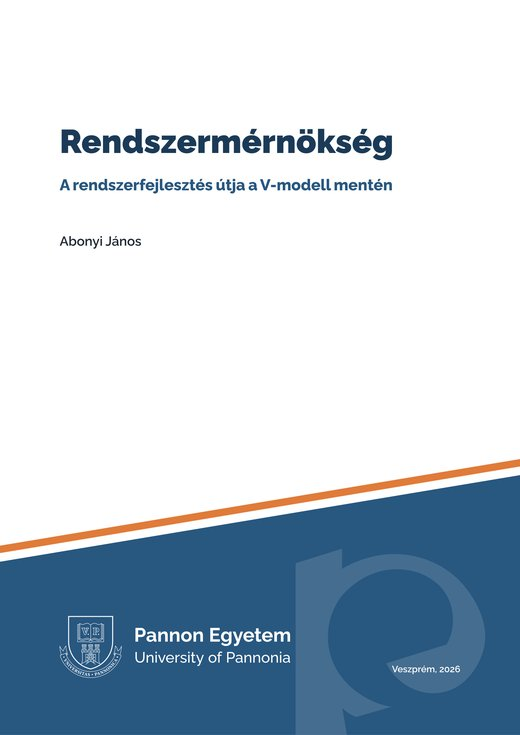
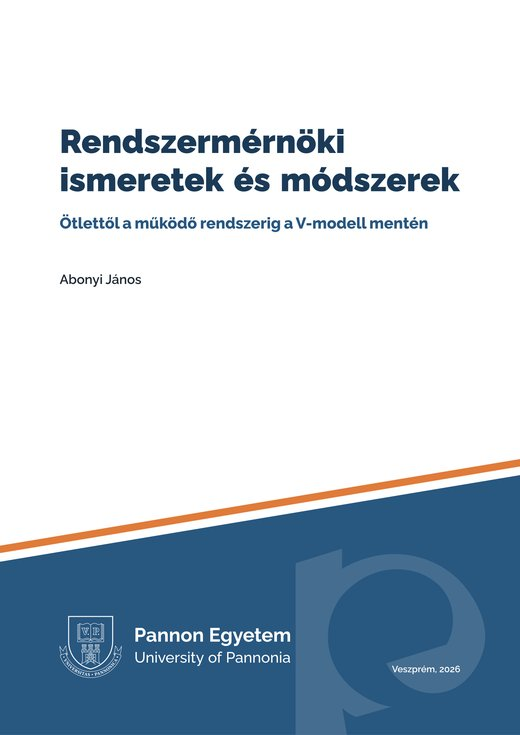
Systems engineering textbook is live: links, cover, DOI, updated counts
Claude-Session: https://claude.ai/code/session_01B7ZiGjqMEoc7xsbXF5qm4o

Changed region(s): [[0.0923, 0.1796, 0.8923, 0.3891]]

diff --git a/index.html b/index.html
@@ -247,8 +247,9 @@ footer .fine a{color:#DCE7F2}
     <ul class="stats" aria-label="At a glance">
       <li><b>3</b><span>open textbooks</span></li>
       <li><b>59</b><span>handbook chapters</span></li>
-      <li><b>23+</b><span>browser practice apps</span></li>
-      <li><b>22+</b><span>Colab notebooks</span></li>
+      <li><b>68</b><span>Colab notebooks</span></li>
+      <li><b>54</b><span>Excel templates</span></li>
+      <li><b>23</b><span>browser practice apps</span></li>
     </ul>
   </div>
   <svg class="slant" viewBox="0 0 1440 110" preserveAspectRatio="none" aria-hidden="true"><polygon points="0,100 1440,30 1440,40 0,110" fill="#E07B39"/><polygon points="0,110 1440,40 1440,110" fill="#fff"/></svg>
@@ -292,7 +293,7 @@ footer .fine a{color:#DCE7F2}
     <div class="shead">
       <div class="kicker">Open textbooks</div>
       <h2 id="tb-title">Learn it, try it, run it</h2>
-      <p>Open-access university textbooks in Hungarian. Each one is a searchable web book with printable PDF and EPUB editions, practice apps that run in the browser and Google Colab notebooks that run with one click.</p>
+      <p>Open-access university textbooks in Hungarian. Each one is a searchable web book with printable PDF and EPUB editions, practice materials – browser apps or Excel templates – and Google Colab notebooks that run with one click.</p>
     </div>
 
     <div class="books">
@@ -332,16 +333,19 @@ footer .fine a{color:#DCE7F2}
       </article>
 
       <article class="book">
-        <a class="cover" href="https://github.com/ComplexSystemsIntelligence/rendszermernokseg" tabindex="-1" aria-hidden="true"><picture><source srcset="assets/covers/rendszermernokseg.webp" type="image/webp"><img src="assets/covers/rendszermernokseg.jpg" alt="" width="220" height="311"></picture></a>
+        <a class="cover" href="https://complexsystemsintelligence.github.io/rendszermernokseg/" tabindex="-1" aria-hidden="true"><picture><source srcset="assets/covers/rendszermernokseg.webp" type="image/webp"><img src="assets/covers/rendszermernokseg.jpg" alt="" width="220" height="311"></picture></a>
         <div class="body">
           <div class="tag">Systems engineering</div>
-          <h3>Rendszermérnökség</h3>
-          <p class="en">Systems Engineering: System Development along the V-Model</p>
-          <p class="desc">Following the V-model from stakeholders and requirements through architecture, decision making, human-centred design and risk to verification, validation and operation – with a practical toolkit of methods.</p>
-          <ul class="meta"><li>Handbook + toolkit</li><li>26 chapters</li><li>55 toolkit methods</li></ul>
+          <h3>Rendszermérnöki ismeretek és módszerek</h3>
+          <p class="en">Systems Engineering: From Idea to Working System along the V-Model</p>
+          <p class="desc">Following the V-model from stakeholders and requirements through architecture, decision making, human-centred design and risk to verification, validation and operation – with three running cases and a practical guide of method sheets.</p>
+          <ul class="meta"><li>Handbook + practical guide</li><li>26 chapters</li><li>55 method sheets</li><li>54 Excel templates</li><li>46 Colab notebooks</li></ul>
           <div class="links">
-            <span class="soon">Web edition launching soon</span>
+            <a class="main" href="https://complexsystemsintelligence.github.io/rendszermernokseg/">Read online</a>
+            <a href="https://complexsystemsintelligence.github.io/rendszermernokseg/kezikonyv/rendszermernokseg-kezikonyv.pdf">PDF</a>
+            <a href="https://complexsystemsintelligence.github.io/rendszermernokseg/kezikonyv/rendszermernokseg-kezikonyv.epub">EPUB</a>
             <a href="https://github.com/ComplexSystemsIntelligence/rendszermernokseg">Source</a>
+            <a href="https://doi.org/10.5281/zenodo.24414135">DOI</a>
           </div>
         </div>
       </article>
@@ -349,7 +353,7 @@ footer .fine a{color:#DCE7F2}
 
     <div class="series" aria-label="How the textbooks are made">
       <div><b>Read anywhere</b><span>Searchable web book, printable PDF and EPUB for e-readers</span></div>
-      <div><b>Try it in the browser</b><span>Practice apps with no installation; Colab notebooks that run with one click</span></div>
+      <div><b>Try it in the browser</b><span>Practice apps and Excel templates with no installation; Colab notebooks that run with one click</span></div>
       <div><b>Reproducible</b><span>Figures drawn in TikZ; worked examples reproducible from the repositories</span></div>
       <div><b>Open and citable</b><span>Creative Commons non-commercial licences for text, MIT for code; releases archived on Zenodo</span></div>
     </div>

diff --git a/README.md b/README.md
@@ -12,7 +12,7 @@ The site is served by GitHub Pages from the `main` branch. The textbooks themsel
 repositories and are published under this domain:
 [adatbanyaszat](https://complexsystemsintelligence.github.io/adatbanyaszat/),
 [biztonsagkritikus-rendszerek](https://complexsystemsintelligence.github.io/biztonsagkritikus-rendszerek/),
-[rendszermernokseg](https://github.com/ComplexSystemsIntelligence/rendszermernokseg).
+[rendszermernokseg](https://complexsystemsintelligence.github.io/rendszermernokseg/).
 
 The name, crest and logo of the University of Pannonia are elements of the university's visual
 identity and are not covered by any open licence.
